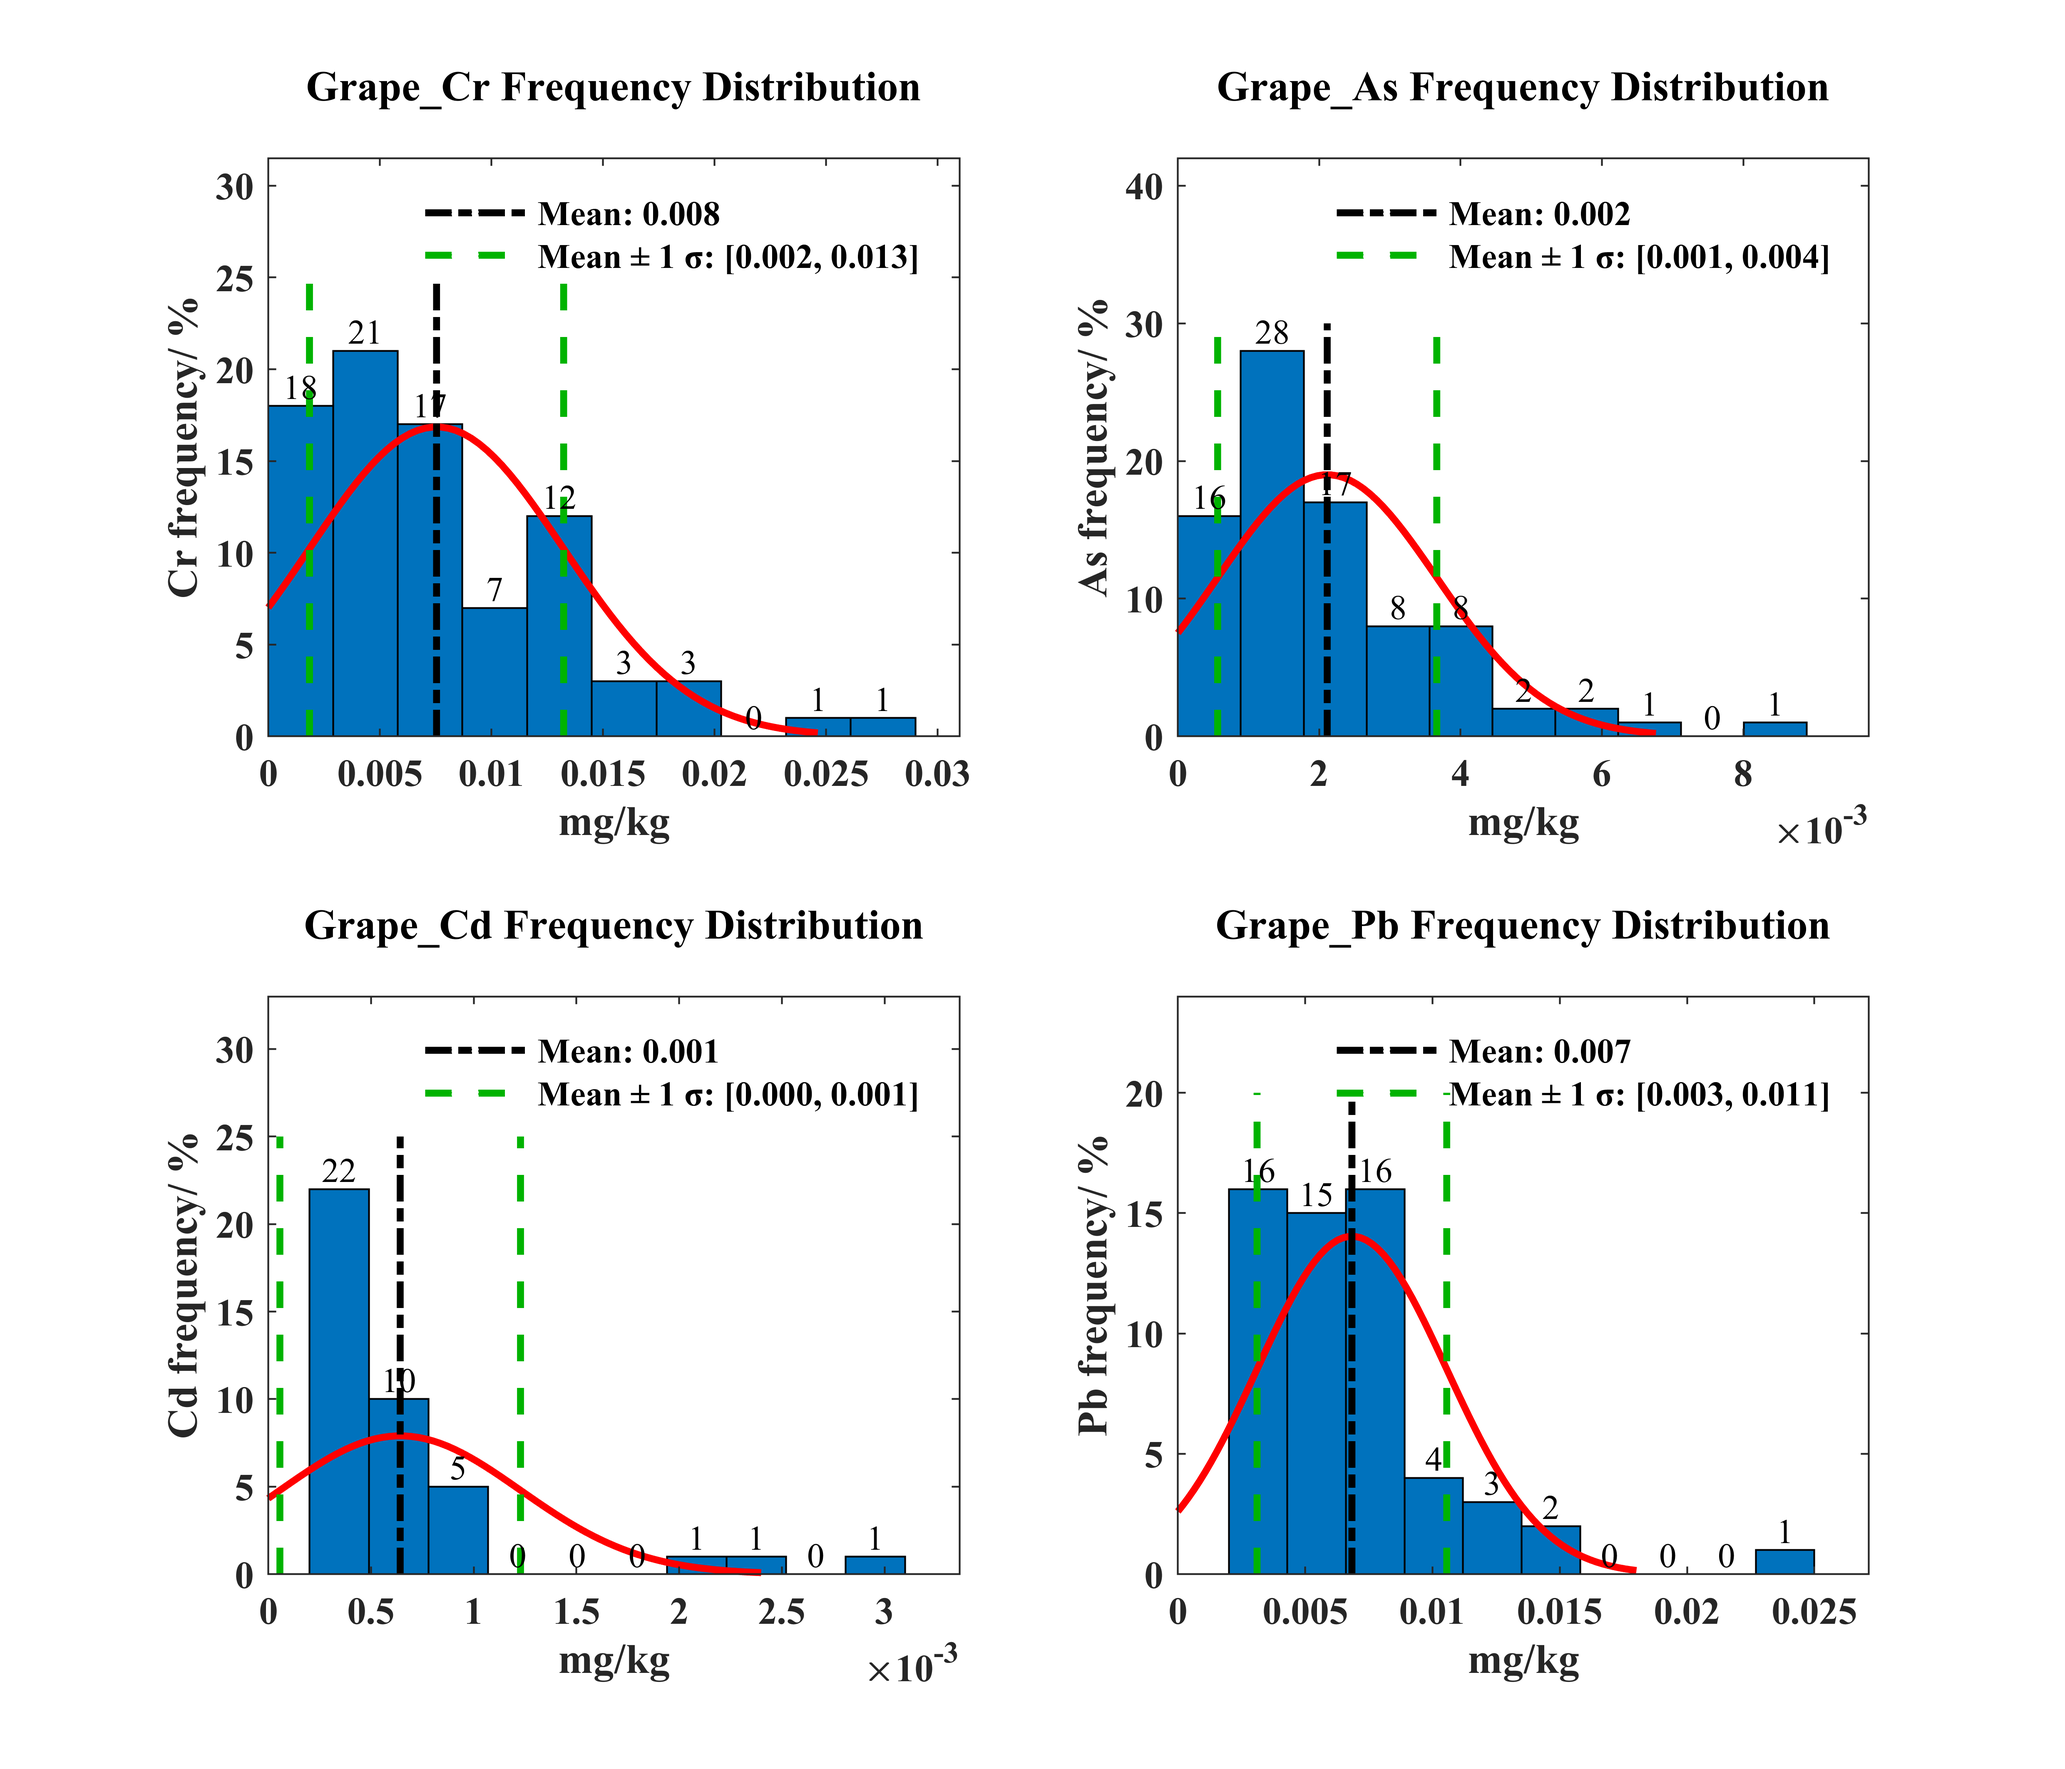
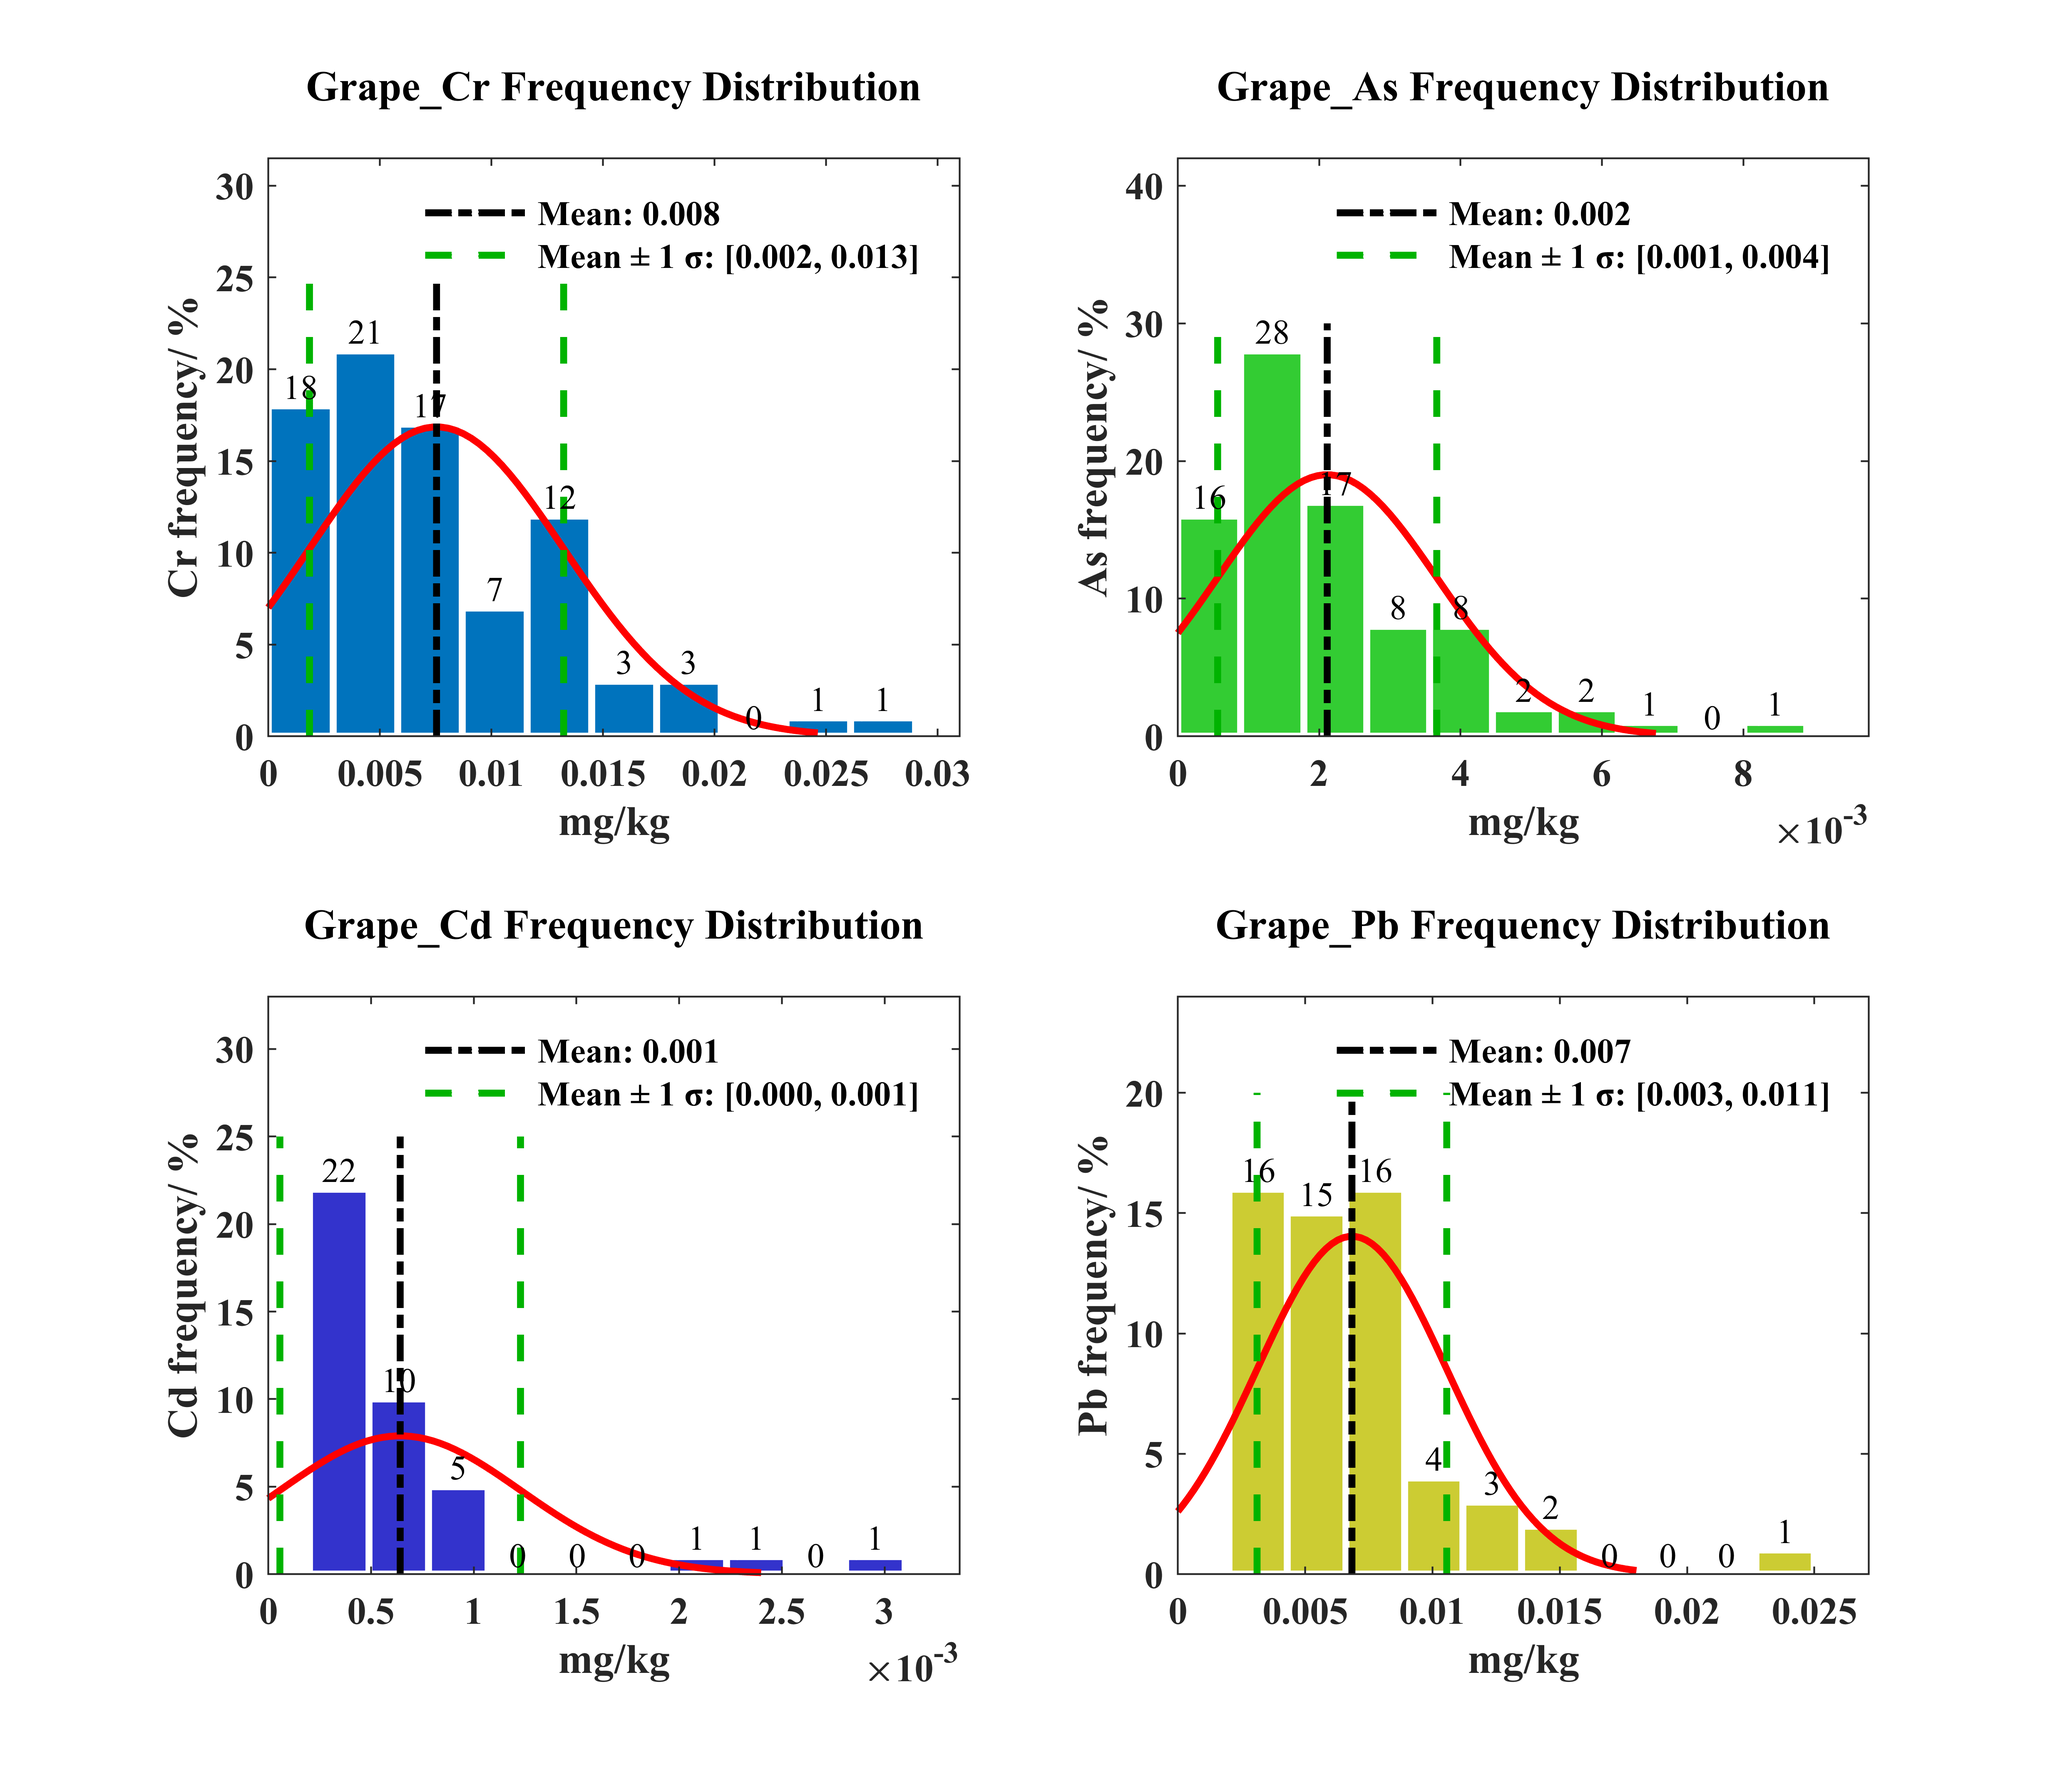
Add files via upload

diff --git a/norm_fig.m b/norm_fig.m
@@ -55,12 +55,12 @@ peach_pb = ori_data(:, 6:6);
 figure
 subplot(2, 2, 1);
 %histogram(peach_cr, 'BinMethod', 'auto');
-histfit(peach_cr, 10, 'normal', 'FaceColor', 'none');
+histfit(peach_cr, 10, 'normal', 'FaceColor', 'none', 'LineLidth', 2);
 ylabel('Cr frequency');
 xlabel('mg/kg')
 hold on
-mean_cr = mean(peach_cr);
-std_cr = std(peach_cr);
+mean_cr = nanmean(peach_cr);
+std_cr = nanstd(peach_cr);
 plot([mean_cr, mean_cr], ylim, 'k-.', 'LineWidth', 2); % 平均值线
 plot([mean_cr - std_cr, mean_cr - std_cr], ylim, 'g--', 'LineWidth', 2); % 一倍标准偏差线
 plot([mean_cr + std_cr, mean_cr + std_cr], ylim, 'g--', 'LineWidth', 2); % 一倍标准偏差线
@@ -70,7 +70,7 @@ title('peach\_cr Frequency Distribution');
 
 subplot(2, 2, 2);
 %histogram(peach_as, 'BinMethod', 'auto');
-histfit(peach_as, 10, 'normal', 'FaceColor', [0.2 0.8 0.2]);
+histfit(peach_as, 10, 'normal', 'FaceColor', [0.2 0.8 0.2], 'LineLidth', 2);
 ylabel('As frequency');
 xlabel('mg/kg')
 hold on
@@ -85,12 +85,12 @@ title('peach\_as Frequency Distribution');
 
 subplot(2, 2, 3);
 %histogram(peach_cd, 'BinMethod', 'auto');
-histfit(peach_cd, 10, 'normal', 'FaceColor', [0.2 0.2 0.8]);
+histfit(peach_cd, 10, 'normal', 'FaceColor', [0.2 0.2 0.8], 'LineLidth', 2);
 ylabel('Cd frequency');
 xlabel('mg/kg')
 hold on
-mean_cd = mean(peach_cd);
-std_cd = std(peach_cd);
+mean_cd = nanmean(peach_cd);
+std_cd = nanstd(peach_cd);
 plot([mean_cd, mean_cd], ylim, 'k-.', 'LineWidth', 2); % 平均值线
 plot([mean_cd - std_cd, mean_cd - std_cd], ylim, 'g--', 'LineWidth', 2); % 一倍标准偏差线
 plot([mean_cd + std_cd, mean_cd + std_cd], ylim, 'g--', 'LineWidth', 2); % 一倍标准偏差线
@@ -100,12 +100,17 @@ title('peach\_cd Frequency Distribution');
 
 subplot(2, 2, 4);
 %histogram(peach_pb, 'BinMethod', 'auto');
-histfit(peach_pb, 10, 'normal', 'FaceColor', [0.8 0.8 0.2]);
+
+h = histfit(peach_pb, 10, 'normal', 'FaceColor', 'none'); 
+h(1).LineWidth = 2;
+h(1).FaceColor = [0.2 0.2 0.8];
+h(1).EdgeColor = [1 1 1];
+
 ylabel('Pb frequency');
 xlabel('mg/kg')
 hold on
-mean_pb = mean(peach_pb);
-std_pb = std(peach_pb);
+mean_pb = nanmean(peach_pb);
+std_pb = nanstd(peach_pb);
 plot([mean_pb, mean_pb], ylim, 'k-.', 'LineWidth', 2); % 平均值线
 plot([mean_pb - std_pb, mean_pb - std_pb], ylim, 'g--', 'LineWidth', 2); % 一倍标准偏差线
 plot([mean_pb + std_pb, mean_pb + std_pb], ylim, 'g--', 'LineWidth', 2); % 一倍标准偏差线
@@ -124,14 +129,15 @@ title_names = {'Strawberry', 'Peach', 'Grape', 'Pear', 'Tomato', 'Lettuce', 'Cuc
 indicators = {'Cr', 'As', 'Cd', 'Pb'};
 data_columns = [3, 4, 5, 6];
 set(0, 'DefaultAxesFontName', 'Times New Roman','DefaultAxesFontSize', 11, 'DefaultAxesFontWeight', 'bold');
-
+%颜色矩阵
+colors = [[0.00, 0.45, 0.74]; [0.2, 0.8, 0.2]; [0.2, 0.2, 0.8]; [0.8, 0.8, 0.2]]
 % 绘图
 for sheet_idx = 1:length(sheet_names); % 建立sheet列表
     sheet_name_i = sheet_names{sheet_idx}; % sheet列表转换
     ori_data = xlsread('factors_analysis_.xlsx', sheet_name_i); %循环读取xls的sheet
 
     figure;
-
+   
     for k = 1:length(indicators) % 建立画图序列
         subplot(2, 2, k);
 
@@ -140,6 +146,10 @@ for sheet_idx = 1:length(sheet_names); % 建立sheet列表
 
         % 绘制直方图和正态分布曲线
         h = histfit(current_data, 10, 'normal', 'FaceColor', 'none');
+        h(1).LineWidth = 2;
+        h(1).FaceColor = colors(k, :);
+        h(1).EdgeColor = [1 1 1];
+  
         ylabel([indicators{k}, ' frequency/', ' %']);
         xlabel('mg/kg');
 
